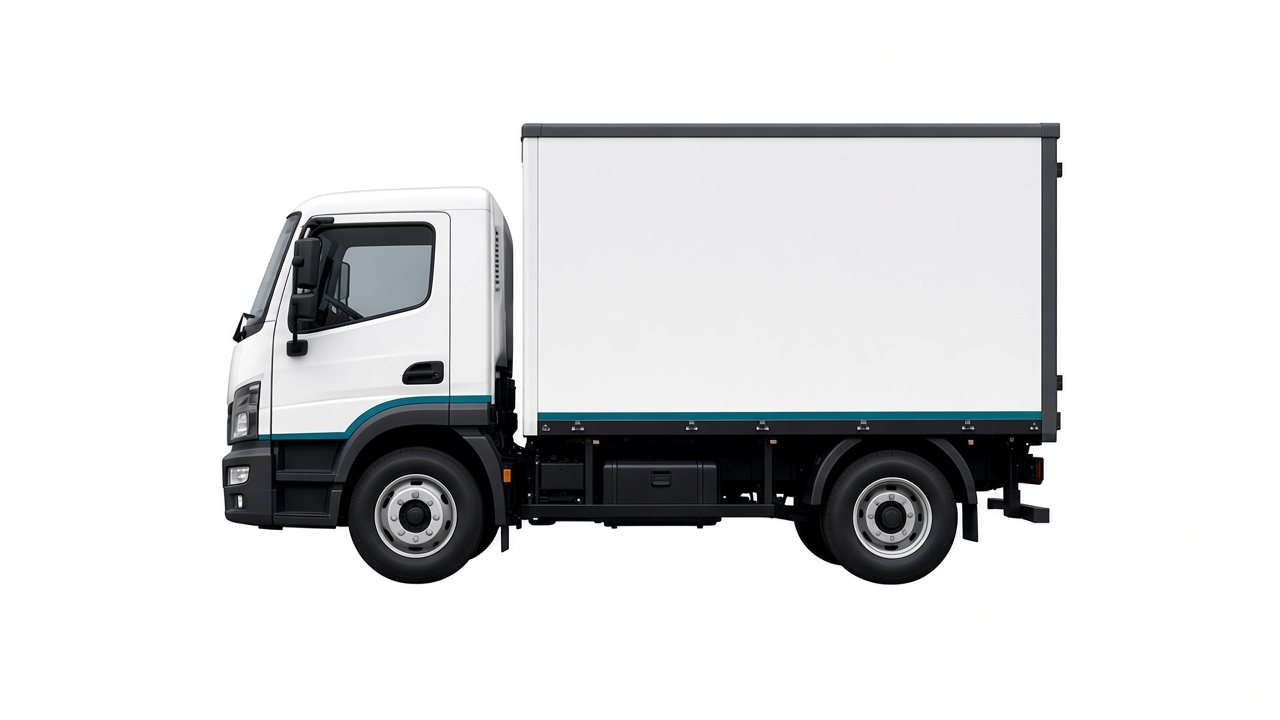
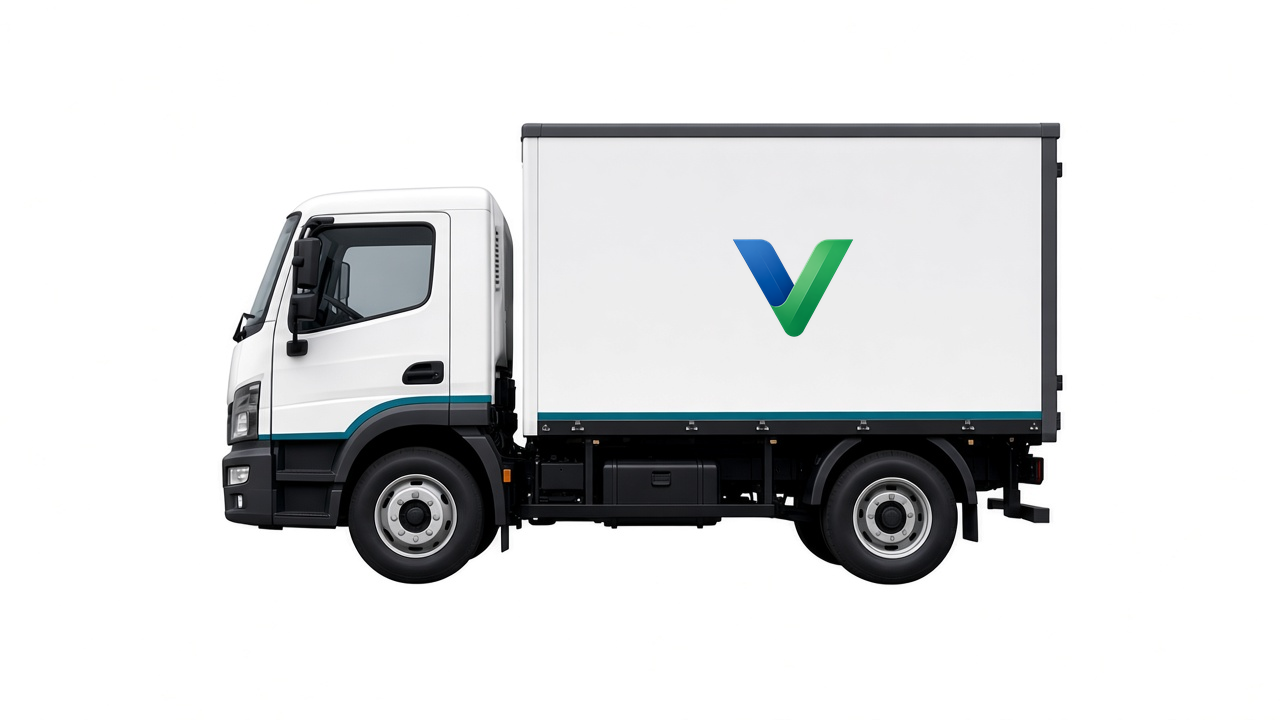
Limit each size to two vehicles and brand the container V
Tata models stay first. 8–9 ft uses Intra and Bolero 1.7 pickup; 10 ft
uses Intra V70 and Bolero Maxx; 11–12 ft uses V70 and Bada Dost. Every
container image now carries the Verified Trucks V.

Changed region(s): [[0.5625, 0.3361, 0.6875, 0.4889]]

diff --git a/assets/booking-common.js b/assets/booking-common.js
@@ -4,22 +4,35 @@ export const MEASURE_MAX_FT = 40;
 export const VEHICLES = [
   { id: "tata-ace", name: "Tata Ace", make: "Tata", feet: [7], bodies: ["open", "container"], image: "ace" },
   { id: "tata-intra", name: "Tata Intra", make: "Tata", feet: [8, 9], bodies: ["open", "container"], image: "intra" },
-  { id: "bolero", name: "Mahindra Bolero Pickup", make: "Mahindra", feet: [8, 9], bodies: ["open"], image: "bolero" },
-  { id: "dost", name: "Ashok Leyland Dost", make: "Ashok Leyland", feet: [8, 9], bodies: ["open", "container"], image: "dost" },
-  { id: "intra-v70", name: "Tata Intra V70", make: "Tata", feet: [10], bodies: ["open", "container"], image: "v70" },
-  { id: "bada-dost", name: "Ashok Leyland Bada Dost", make: "Ashok Leyland", feet: [10], bodies: ["open", "container"], image: "bada-dost" },
+  { id: "bolero-17", name: "Mahindra Bolero 1.7 Pickup", make: "Mahindra", feet: [8, 9], bodies: ["open"], image: "bolero-17" },
+  { id: "intra-v70", name: "Tata Intra V70", make: "Tata", feet: [10, 11, 12], bodies: ["open", "container"], image: "v70" },
+  { id: "bolero-maxx", name: "Mahindra Bolero Maxx Pickup", make: "Mahindra", feet: [10], bodies: ["open"], image: "bolero-maxx" },
+  { id: "bada-dost", name: "Ashok Leyland Bada Dost", make: "Ashok Leyland", feet: [11, 12], bodies: ["open", "container"], image: "bada-dost" },
   { id: "tata-407", name: "Tata 407", make: "Tata", feet: [14], bodies: ["open", "container"], image: "lcv-small" },
   { id: "eicher-2049", name: "Eicher Pro 2049", make: "Eicher", feet: [14], bodies: ["open", "container"], image: "lcv-small" },
-  { id: "al-partner", name: "Ashok Leyland Partner", make: "Ashok Leyland", feet: [14], bodies: ["open", "container"], image: "lcv-small" },
   { id: "tata-1109", name: "Tata 1109", make: "Tata", feet: [17], bodies: ["open", "container"], image: "lcv-mid" },
   { id: "eicher-3015", name: "Eicher Pro 3015", make: "Eicher", feet: [17, 19], bodies: ["open", "container"], image: "lcv-mid" },
   { id: "tata-lpt", name: "Tata LPT 1613", make: "Tata", feet: [19, 20], bodies: ["open", "container"], image: "lcv-mid" },
-  { id: "al-1616", name: "Ashok Leyland 1616", make: "Ashok Leyland", feet: [20, 22], bodies: ["open", "container"], image: "lcv-mid" },
+  { id: "al-1616", name: "Ashok Leyland 1616", make: "Ashok Leyland", feet: [20, 22, 24], bodies: ["open", "container"], image: "lcv-mid" },
   { id: "tata-22", name: "Tata LPT 22 ft", make: "Tata", feet: [22, 24], bodies: ["open", "container"], image: "lcv-mid" },
   { id: "tata-32-open", name: "Tata 32 ft open", make: "Tata", feet: [32], bodies: ["open"], image: "lcv-large" },
   { id: "tata-32-box", name: "Tata 32 ft container", make: "Tata", feet: [32], bodies: ["container"], image: "lcv-large" },
   { id: "al-32", name: "Ashok Leyland 32 ft", make: "Ashok Leyland", feet: [32], bodies: ["open", "container"], image: "lcv-large" },
 ];
+
+function makeRank(make) {
+  if (make === "Tata") return 0;
+  if (make === "Mahindra") return 1;
+  if (make === "Eicher") return 2;
+  return 3;
+}
+
+function topTwo(list) {
+  return list
+    .slice()
+    .sort((a, b) => makeRank(a.make) - makeRank(b.make) || a.name.localeCompare(b.name))
+    .slice(0, 2);
+}
 
 export function sizeClass(feet) {
   const n = Number(feet);
@@ -33,9 +46,9 @@ export function vehiclesFor(feet, bodyType) {
   const n = Number(feet);
   const body = bodyType === "open" ? "open" : "container";
   const match = VEHICLES.filter((v) => v.feet.includes(n) && v.bodies.includes(body));
-  if (match.length) return match;
+  if (match.length) return topTwo(match);
   const anyAtSize = VEHICLES.filter((v) => v.feet.includes(n));
-  if (anyAtSize.length) return anyAtSize;
+  if (anyAtSize.length) return topTwo(anyAtSize);
   let nearest = 20;
   let best = 99;
   VEHICLES.forEach((v) => {
@@ -47,7 +60,7 @@ export function vehiclesFor(feet, bodyType) {
       }
     });
   });
-  return VEHICLES.filter((v) => v.feet.includes(nearest) && v.bodies.includes(body));
+  return topTwo(VEHICLES.filter((v) => v.feet.includes(nearest) && v.bodies.includes(body)));
 }
 
 export function vehicleSrc(vehicle, bodyType) {

diff --git a/truck-types.html b/truck-types.html
@@ -39,8 +39,8 @@
       <p class="lead">People searching Tata Ace booking, mini truck hire, Bolero pickup, Ashok Leyland Dost, Tata 407, 17 ft truck, 20 ft lorry, 32 ft container, or open body truck can start from the size in feet. Models below are what the booking form suggests. A vehicle is confirmed only after a transporter bids and you accept.</p>
 
       <section class="about-block">
-        <h2>Small and mini trucks (about 7–10 ft)</h2>
-        <p>Tata Ace (7 ft), Tata Intra and Ashok Leyland Dost or Mahindra Bolero pickup (8–9 ft), Tata Intra V70 and Ashok Leyland Bada Dost (10 ft). Common for city drops, shop stock, and light cargo. Open or container where the model allows.</p>
+        <h2>Small and mini trucks (about 7–12 ft)</h2>
+        <p>Two options per size, Tata first where it applies: Tata Ace (7 ft); Tata Intra and Mahindra Bolero 1.7 Pickup (8–9 ft); Tata Intra V70 and Mahindra Bolero Maxx Pickup (10 ft); Tata Intra V70 and Ashok Leyland Bada Dost (11–12 ft). Container versions show the Verified Trucks V on the box.</p>
         <div class="cta-row">
           <a class="cta-btn" href="/#book">Book a mini truck</a>
         </div>
@@ -48,7 +48,7 @@
 
       <section class="about-block">
         <h2>LCV and medium lorries (about 14–24 ft)</h2>
-        <p>Tata 407, Eicher Pro 2049 and Ashok Leyland Partner around 14 ft. Tata 1109, Eicher 3015, Tata LPT and Ashok Leyland 1616 in the 17–22 ft range. Used for intercity goods and heavier tonnage than a mini truck.</p>
+        <p>Two options per size: Tata 407 and Eicher Pro 2049 around 14 ft; Tata 1109 and Eicher 3015 around 17–19 ft; Tata LPT and Ashok Leyland 1616 around 20–24 ft.</p>
         <div class="cta-row">
           <a class="cta-btn" href="/#book">Book a lorry</a>
           <a class="cta-btn cta-btn-secondary" href="/book-truck-online.html">Booking steps</a>
@@ -90,9 +90,11 @@
     "name": "Truck types on Verified Trucks",
     "itemListElement": [
       { "@type": "ListItem", "position": 1, "name": "Tata Ace mini truck 7 ft" },
-      { "@type": "ListItem", "position": 2, "name": "Tata Intra and Dost 8–10 ft" },
-      { "@type": "ListItem", "position": 3, "name": "Tata 407 and medium LCV 14–22 ft" },
-      { "@type": "ListItem", "position": 4, "name": "32 ft open and container trailer" }
+      { "@type": "ListItem", "position": 2, "name": "Tata Intra and Mahindra Bolero 1.7 Pickup 8–9 ft" },
+      { "@type": "ListItem", "position": 3, "name": "Tata Intra V70 and Mahindra Bolero Maxx Pickup 10 ft" },
+      { "@type": "ListItem", "position": 4, "name": "Tata Intra V70 and Ashok Leyland Bada Dost 11–12 ft" },
+      { "@type": "ListItem", "position": 5, "name": "Tata 407 and medium LCV 14–24 ft" },
+      { "@type": "ListItem", "position": 6, "name": "32 ft open and container trailer" }
     ]
   }
   </script>
